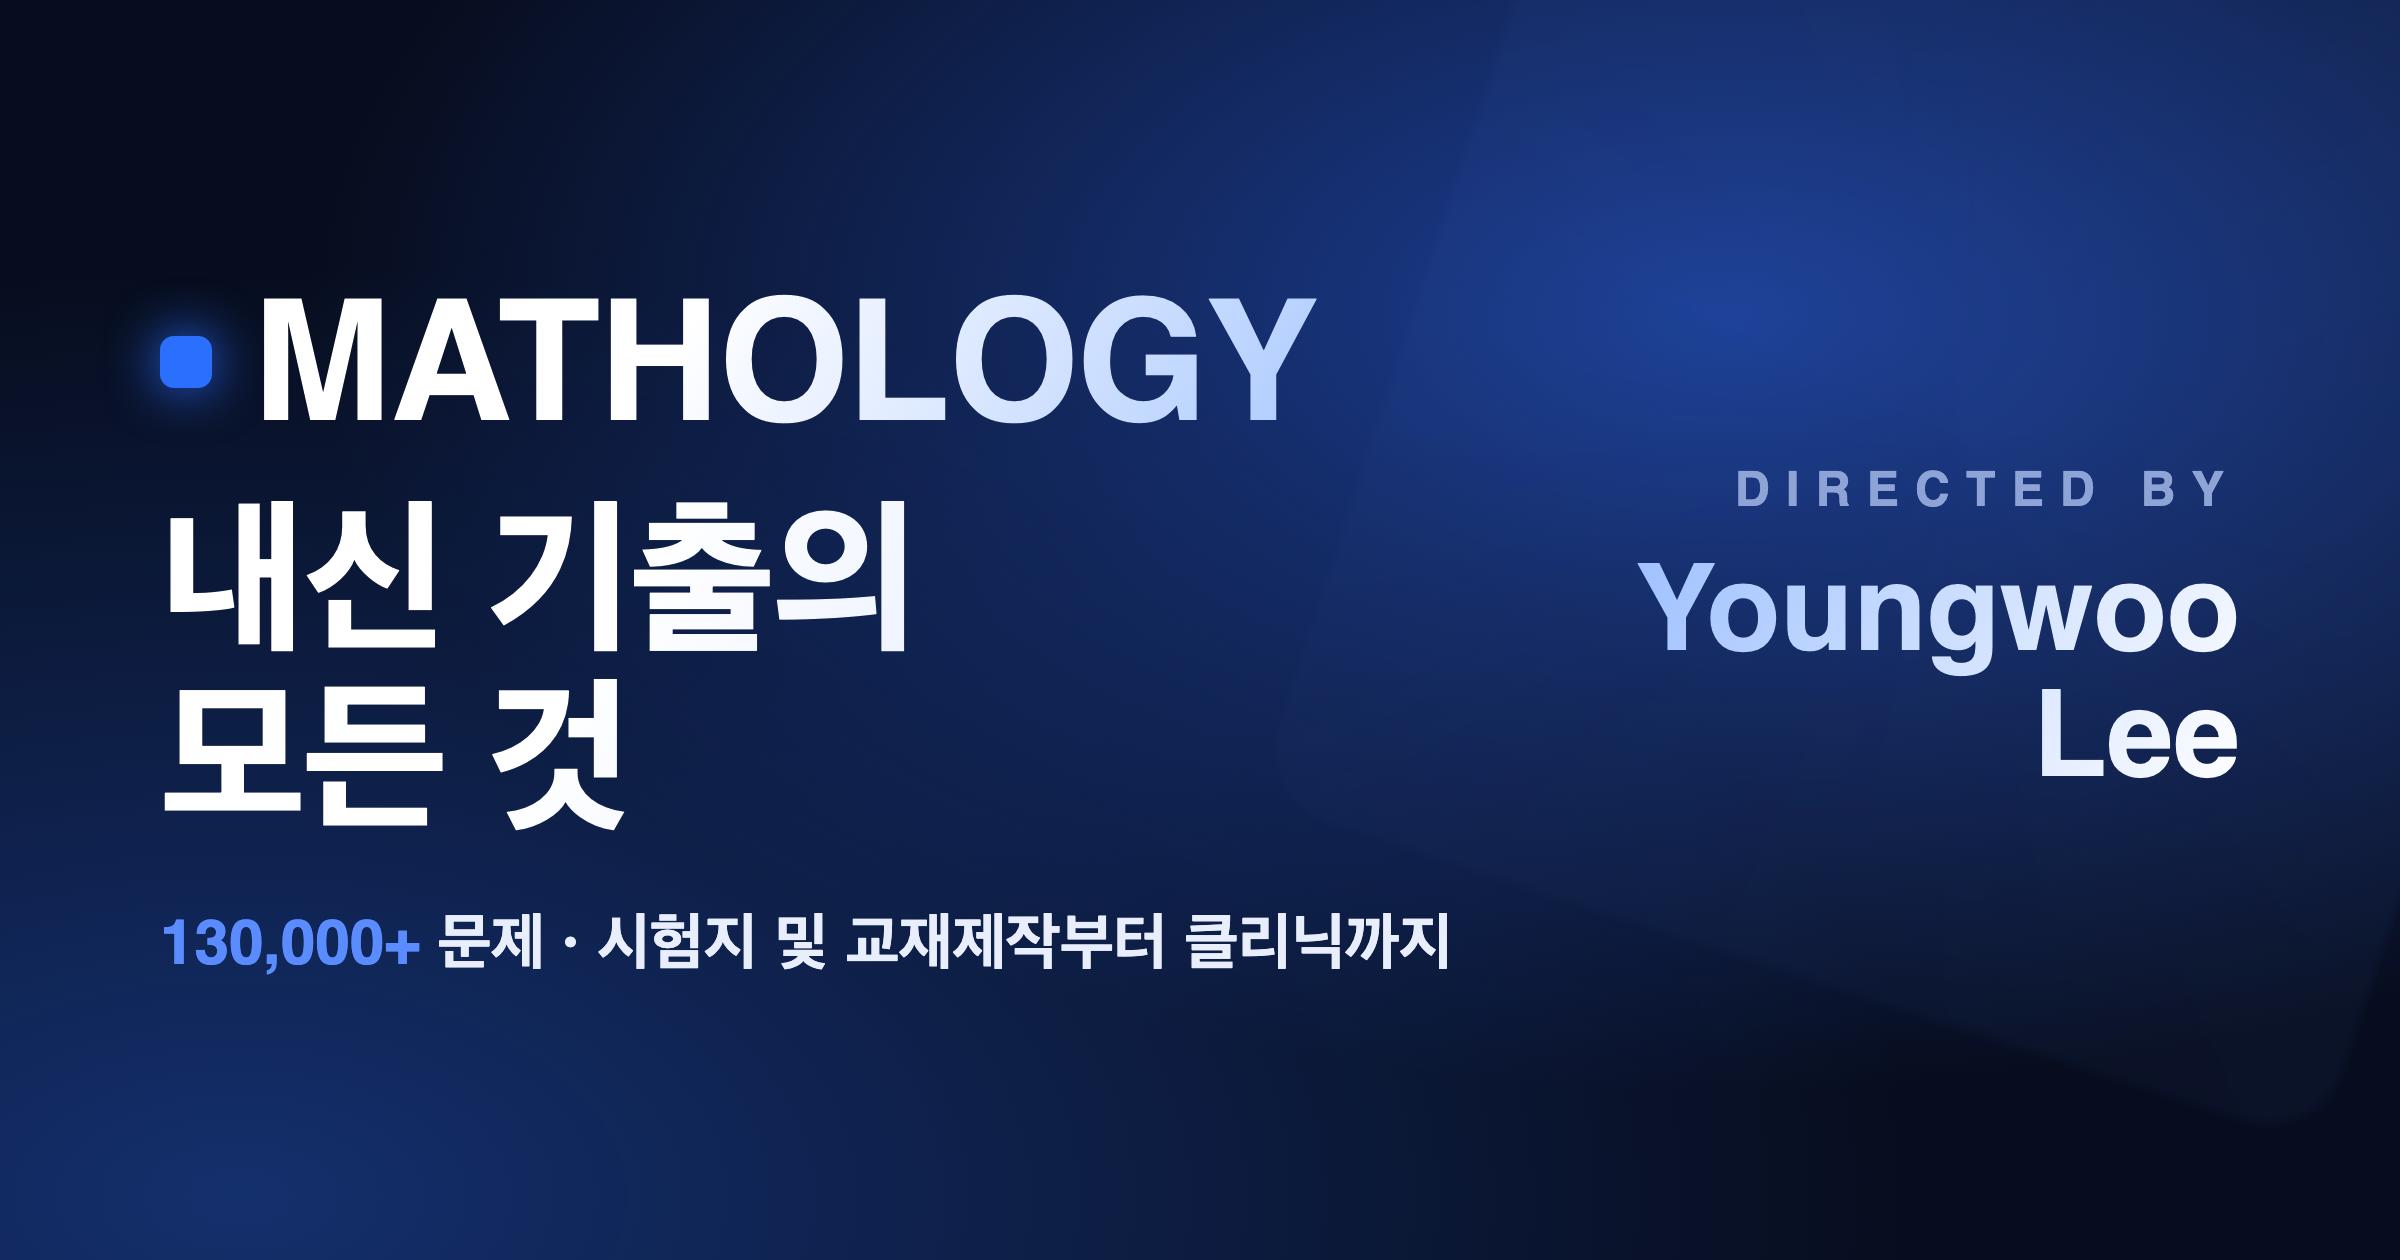
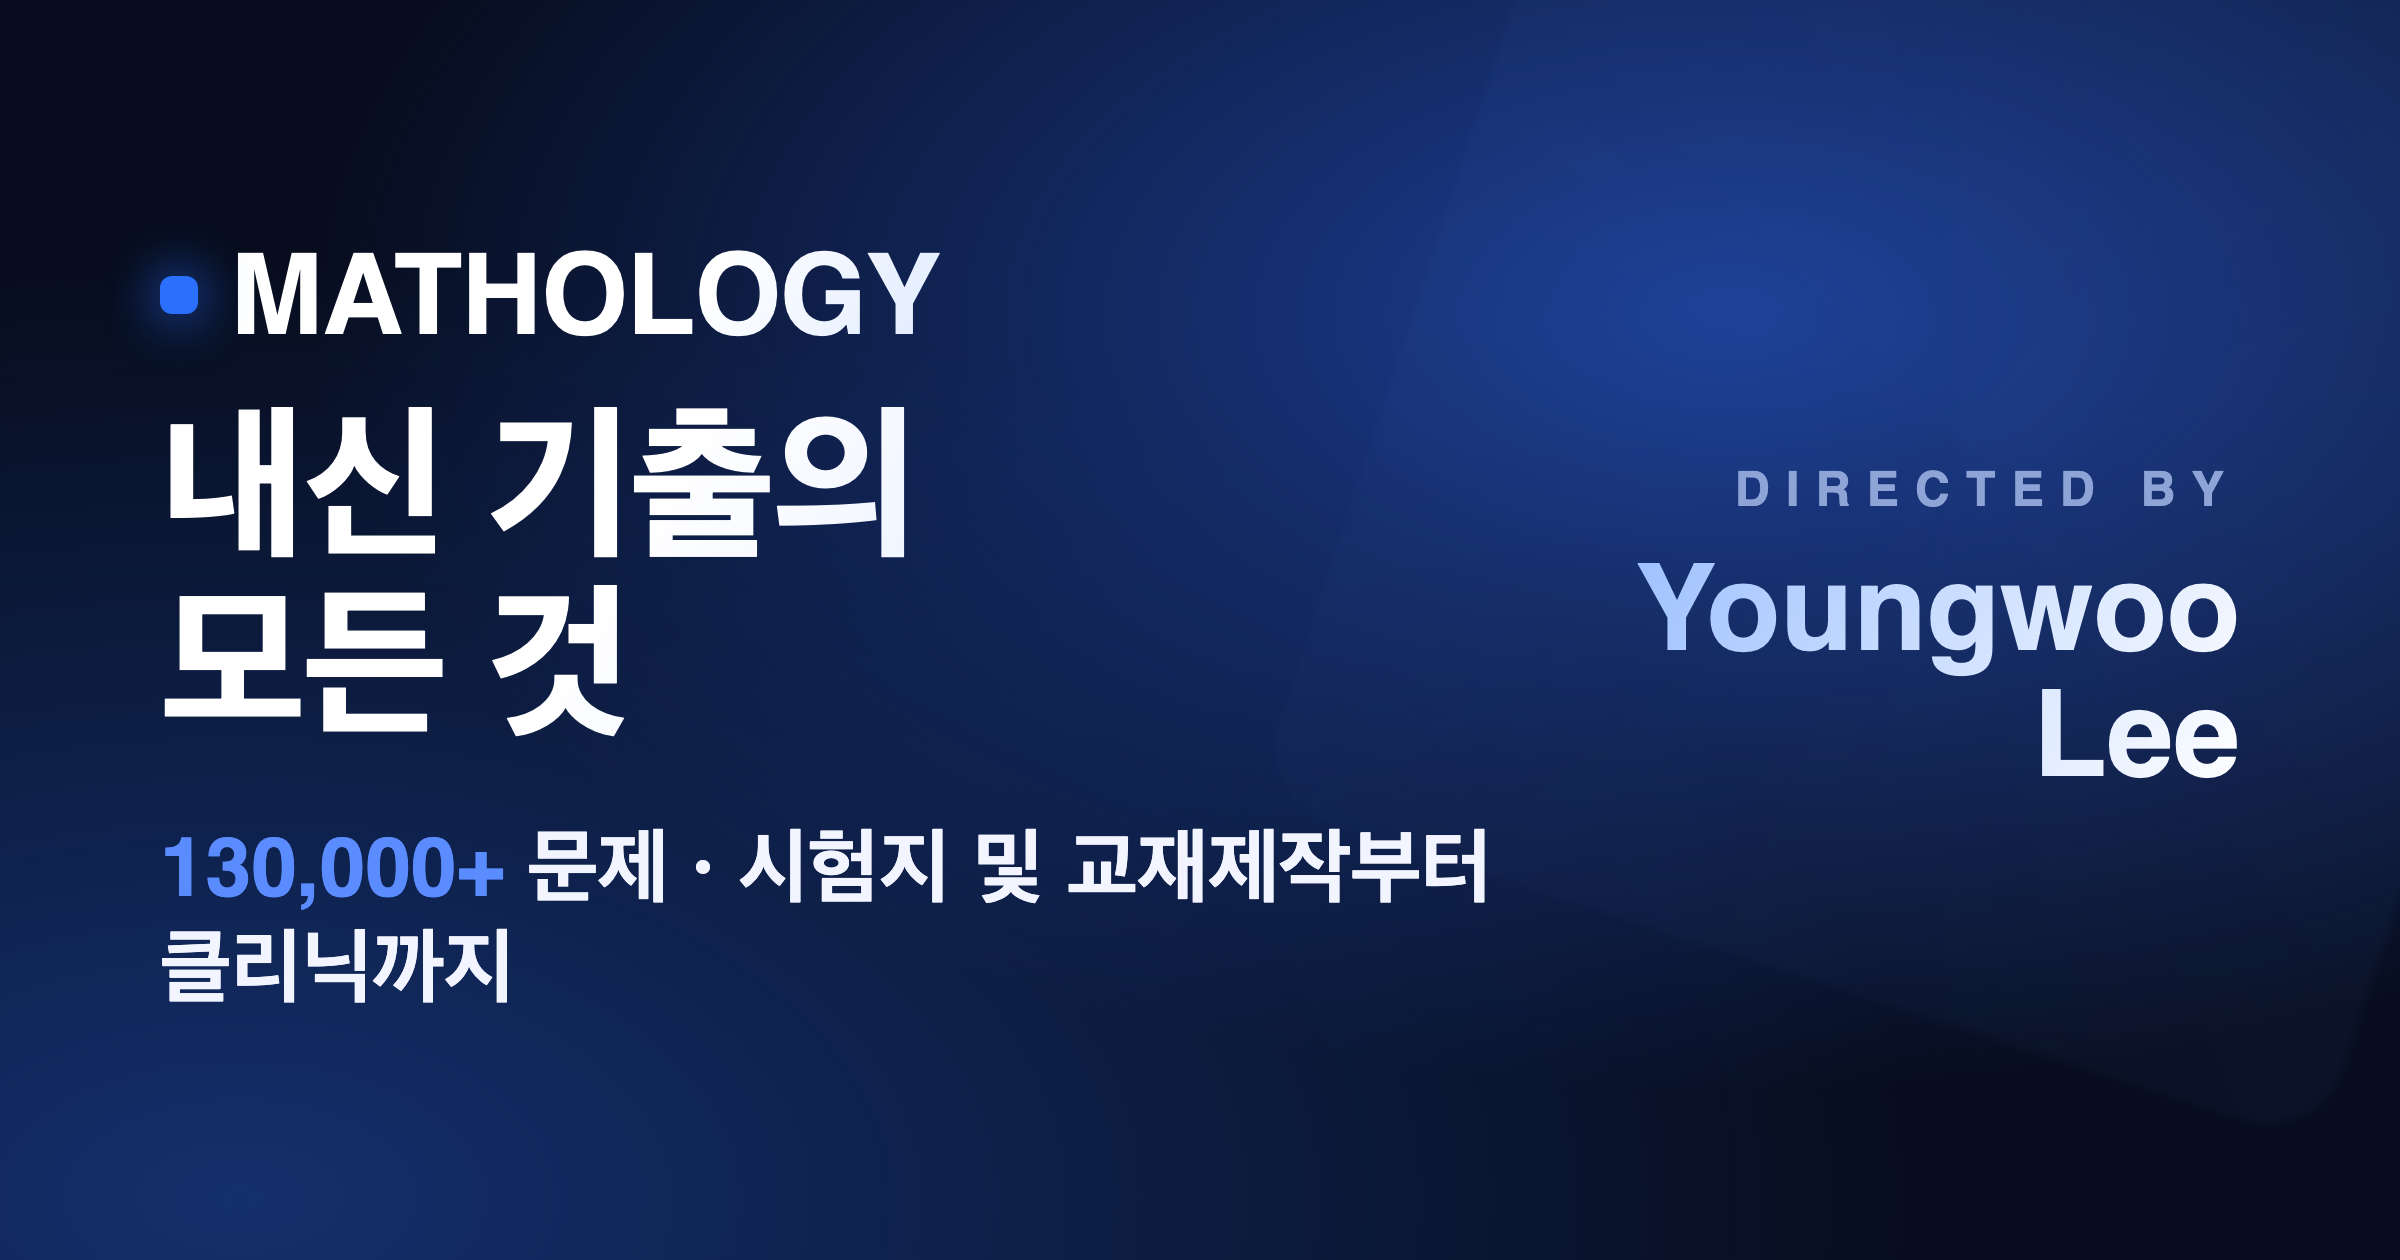
OG 썸네일: MATHOLOGY 축소 + 130,000 줄 확대 (가독성)

Changed region(s): [[0.0312, 0.1857, 0.625, 0.8048]]

diff --git a/landing/index.html b/landing/index.html
@@ -10,14 +10,14 @@
 <meta property="og:site_name" content="MATHOLOGY" />
 <meta property="og:title" content="MATHOLOGY · 내신 기출의 모든 것" />
 <meta property="og:description" content="130,000+ 문제 · 시험지 및 교재제작부터 클리닉까지. Directed by YOUNGWOO LEE" />
-<meta property="og:image" content="https://bblife0919.github.io/MathArchive/og.png?v=2" />
+<meta property="og:image" content="https://bblife0919.github.io/MathArchive/og.png?v=3" />
 <meta property="og:image:width" content="1200" />
 <meta property="og:image:height" content="630" />
 <meta property="og:url" content="https://bblife0919.github.io/MathArchive/" />
 <meta name="twitter:card" content="summary_large_image" />
 <meta name="twitter:title" content="MATHOLOGY · 내신 기출의 모든 것" />
 <meta name="twitter:description" content="130,000+ 문제 · 시험지 및 교재제작부터 클리닉까지." />
-<meta name="twitter:image" content="https://bblife0919.github.io/MathArchive/og.png?v=2" />
+<meta name="twitter:image" content="https://bblife0919.github.io/MathArchive/og.png?v=3" />
 <link rel="preconnect" href="https://fonts.googleapis.com" />
 <link rel="preconnect" href="https://fonts.gstatic.com" crossorigin />
 <link href="https://fonts.googleapis.com/css2?family=Pretendard:wght@400;500;700;800&display=swap" rel="stylesheet" />
